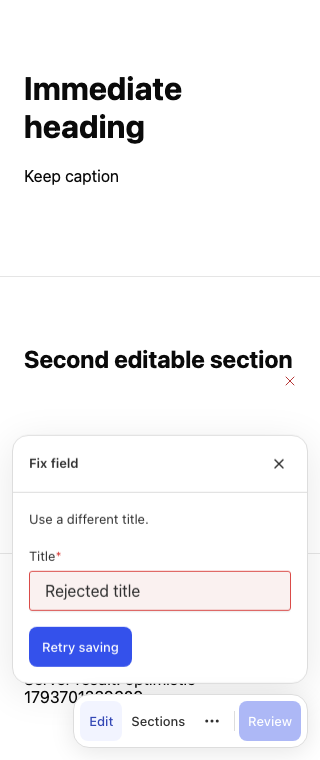
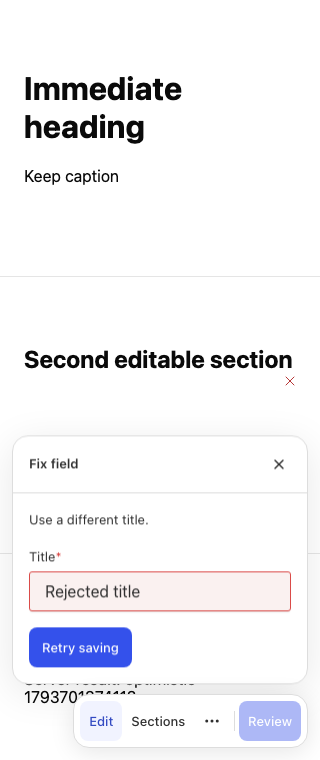
fix(editor): retain native validation errors across refreshes

diff --git a/src/frontend/recovery.tsx b/src/frontend/recovery.tsx
@@ -3,6 +3,7 @@ import { createContext, use, useEffect, useRef, useState } from "react";
 import {
   useDocumentInfo,
   useForm,
+  useFormFields,
   useFormBackgroundProcessing,
   useFormProcessing,
 } from "@payloadcms/ui";
@@ -12,6 +13,7 @@ export type EditorFailure = {
   kind: "network" | "session" | "conflict" | "validation";
   message: string;
   paths?: string[];
+  fieldErrors?: Record<string, string>;
 };
 type Recovery = {
   failure: EditorFailure | null;
@@ -54,6 +56,27 @@ export function NativeSubmissionMonitor() {
   const processing = useFormProcessing(),
     background = useFormBackgroundProcessing();
   const checkedAttempt = useRef(0);
+  // Native onChange refreshes can clear field metadata before the status request returns.
+  // Retain errors for this submission only; values and persistence still belong to Form.
+  const nativeErrors = useFormFields(([fields]) =>
+    JSON.stringify(
+      Object.entries(fields)
+        .filter(([, field]) => field.valid === false)
+        .map(([path, field]) => [
+          path,
+          typeof field.errorMessage === "string" ? field.errorMessage : "",
+        ]),
+    ),
+  );
+  const captured = useRef<{ attempt: number; errors: [string, string][] }>({
+    attempt: 0,
+    errors: [],
+  });
+  if (captured.current.attempt !== recovery.attempt)
+    captured.current = { attempt: recovery.attempt, errors: [] };
+  if (recovery.attempt > recovery.acknowledged.current && nativeErrors !== "[]")
+    captured.current.errors = JSON.parse(nativeErrors);
+
   const busy = useRef(false),
     current = useRef({ processing, background, form, info });
   current.current = { processing, background, form, info };
@@ -90,9 +113,15 @@ export function NativeSubmissionMonitor() {
         form.setModified(true);
         form.setDisabled(true);
       } else if (failed) {
-        const paths = Object.entries(form.getFields())
-          .filter(([, field]) => field.valid === false)
-          .map(([path]) => path);
+        const errors = new Map<string, string>(captured.current.errors);
+        for (const [path, field] of Object.entries(form.getFields())) {
+          if (field.valid === false)
+            errors.set(
+              path,
+              typeof field.errorMessage === "string" ? field.errorMessage : "",
+            );
+        }
+        const paths = [...errors.keys()];
         recovery.setFailure(
           paths.length
             ? {
@@ -100,6 +129,7 @@ export function NativeSubmissionMonitor() {
                 message:
                   "Some fields need attention. Open a field below to correct it, then retry saving.",
                 paths,
+                fieldErrors: Object.fromEntries(errors),
               }
             : {
                 kind: "network",

diff --git a/dev/optimistic.e2e.spec.ts b/dev/optimistic.e2e.spec.ts
@@ -1099,6 +1099,12 @@ test("native save errors reveal an unmounted field and retry the same form", asy
   page,
 }) => {
   const doc = await createEditor(page, "validatedPages");
+  // Model a slow revision check while native onChange metadata refreshes complete.
+  await page.route("**/visual-editor/status?*", async (route) => {
+    const response = await route.fetch();
+    await new Promise((resolve) => setTimeout(resolve, 600));
+    await route.fulfill({ response });
+  });
   await page.getByRole("button", { name: "More tools", exact: true }).click();
   await page
     .getByRole("menuitem", { name: "Page details", exact: true })

diff --git a/src/frontend/FrontendControls.tsx b/src/frontend/FrontendControls.tsx
@@ -717,7 +717,10 @@ export function FrontendControls({
     }
   }
   const validationMessage = useFormFields(([fields]) =>
-    validationPath ? fields[validationPath]?.errorMessage : undefined,
+    validationPath
+      ? fields[validationPath]?.errorMessage ||
+        recovery.failure?.fieldErrors?.[validationPath]
+      : undefined,
   );
   const statusText = recovery.failure
     ? t("Not saved", "Nicht gespeichert")

diff --git a/docs/validation.md b/docs/validation.md
@@ -52,3 +52,7 @@ Native shadow selector adaptation now retains root theme qualifiers inside `:hos
 Validation recovery links directly to native fields even after their panels unmount, mounts one field owner, explains the native error and retries through the same Form. Feedback and panels share a measured stack clearance; long feedback scrolls within a bounded surface. Successful correction returns focus to More tools. A native draft-validation fixture proves server rejection, retained input, 320px correction and successful readback. Production Turbopack needs one consistent Payload server runtime to preserve native error-class identity; demo and installed-consumer configs externalize `payload` explicitly.
 
 Local build/type/lint, 59 units and 6 real Postgres cases pass. The 23 pre-existing production cases pass after these changes; the additional focused native validation/focus case passes. The complete 24-case run and matching immutable consumer archive are required in CI before final candidate acceptance. Manual release CI and negative-control policy tests now reject mismatched source/archive/consumer evidence and prereleases on the stable channel. Npm account trusted-publisher activation remains external account configuration; no registry publication or production deployment is claimed.
+
+## Alpha.4 submission-error race (2026-11-03)
+
+CI run 41618592172 returned a correct native ValidationError but exposed an asynchronous metadata race: a subsequent native Form-state refresh could clear the error marker before the revision-status request completed. Recovery now subscribes to native field errors and retains only their paths/messages for the current submission attempt. It stores no document values and creates no save queue. The regression delays the revision check while ordinary native refreshes finish; correction still reveals the original field/message and native retry persists the fixed value. Local full production browser suite: 24/24 passed; 59 units, typecheck, lint and build pass. The independent consumer now receives a temporary public-npm user config so developer credentials/scoped registries cannot influence anonymous peer installation.

diff --git a/CHANGELOG.md b/CHANGELOG.md
@@ -1,6 +1,11 @@
 # Changelog
 
-## 0.1.0-alpha.3 — candidate
+## 0.1.0-alpha.4 — candidate
+
+- Retain native validation errors per submission so slower form-state refreshes cannot remove correction links.
+- Isolate clean-consumer npm configuration from the developer's credentials and scoped registries.
+
+## 0.1.0-alpha.3
 
 - Edit bound plain text directly on the website through one native Payload Form, with immediate optimistic preview and background native persistence.
 - Use a compact horizontal dock, one contextual panel, shadcn Base UI menus/selects, list/page drag-and-drop and keyboard structural undo.
